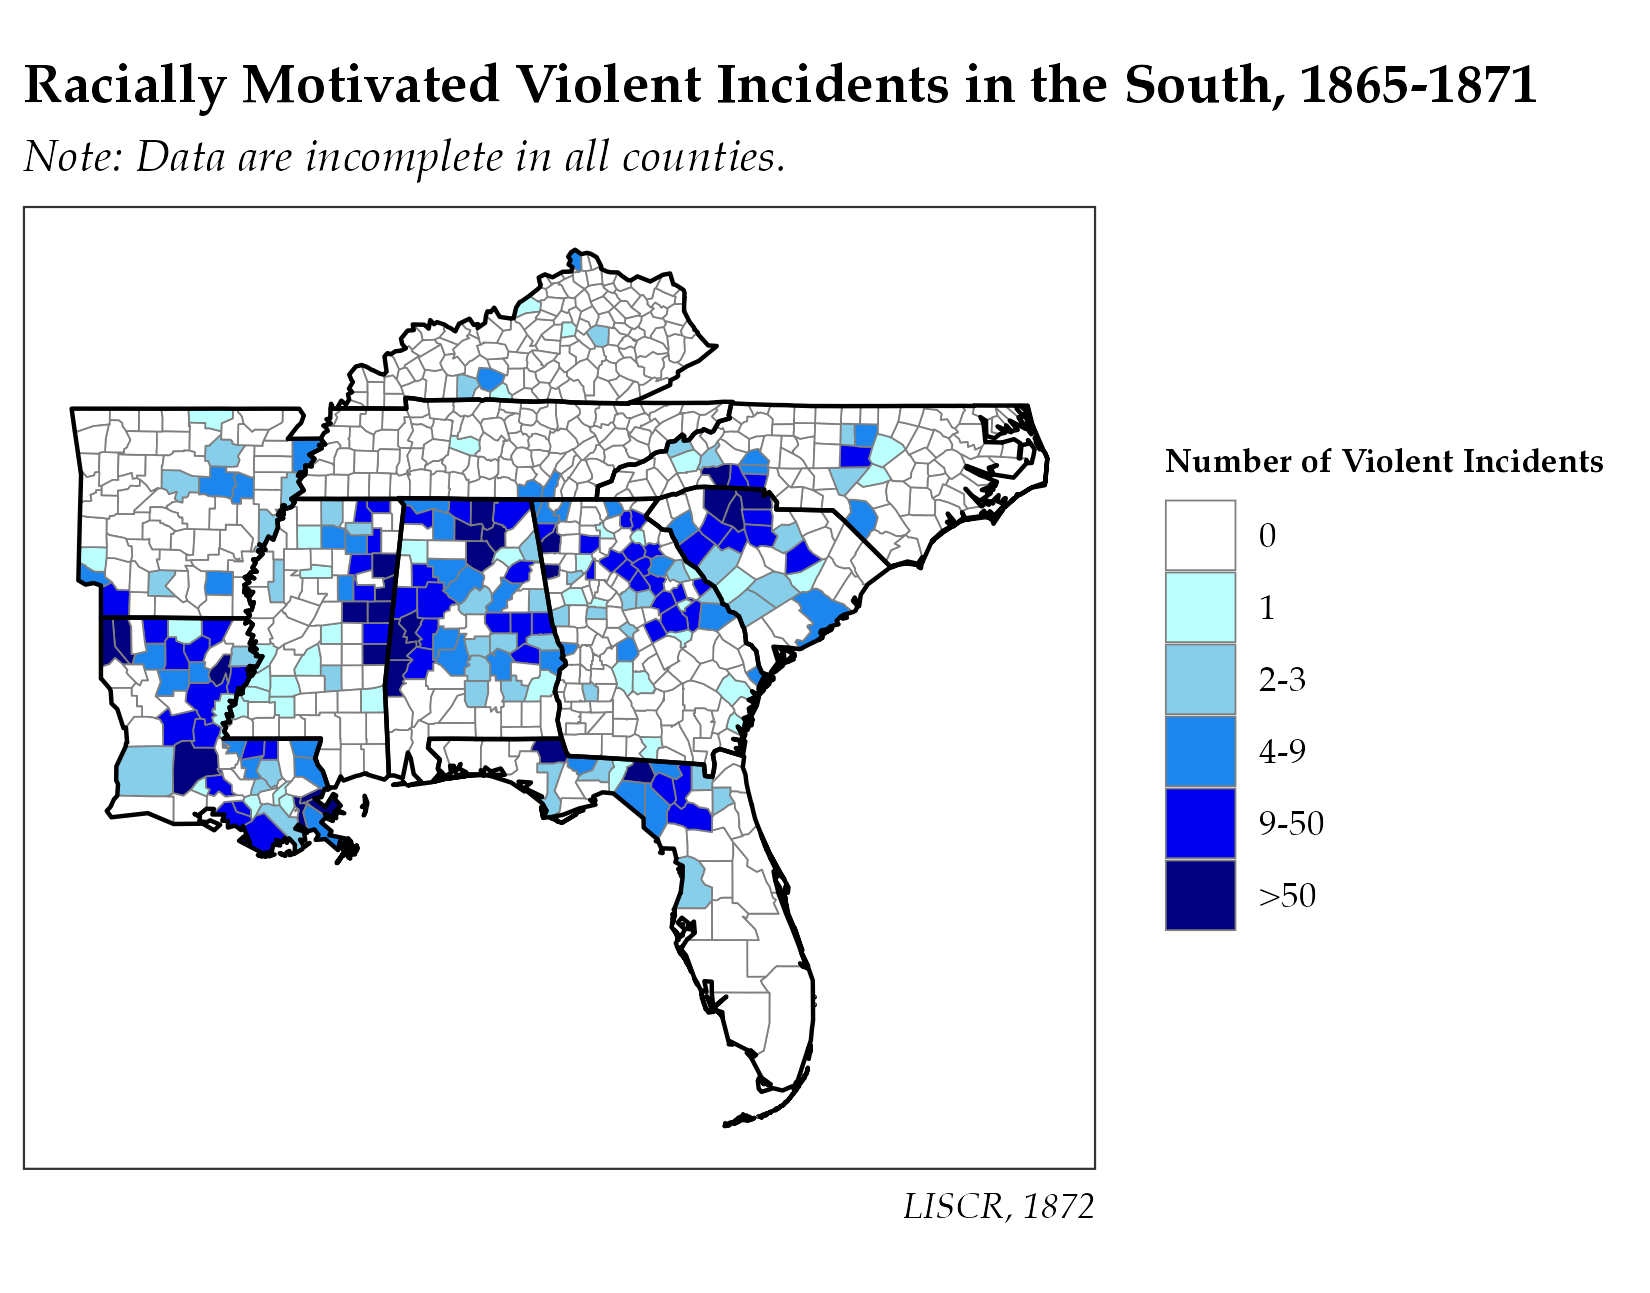
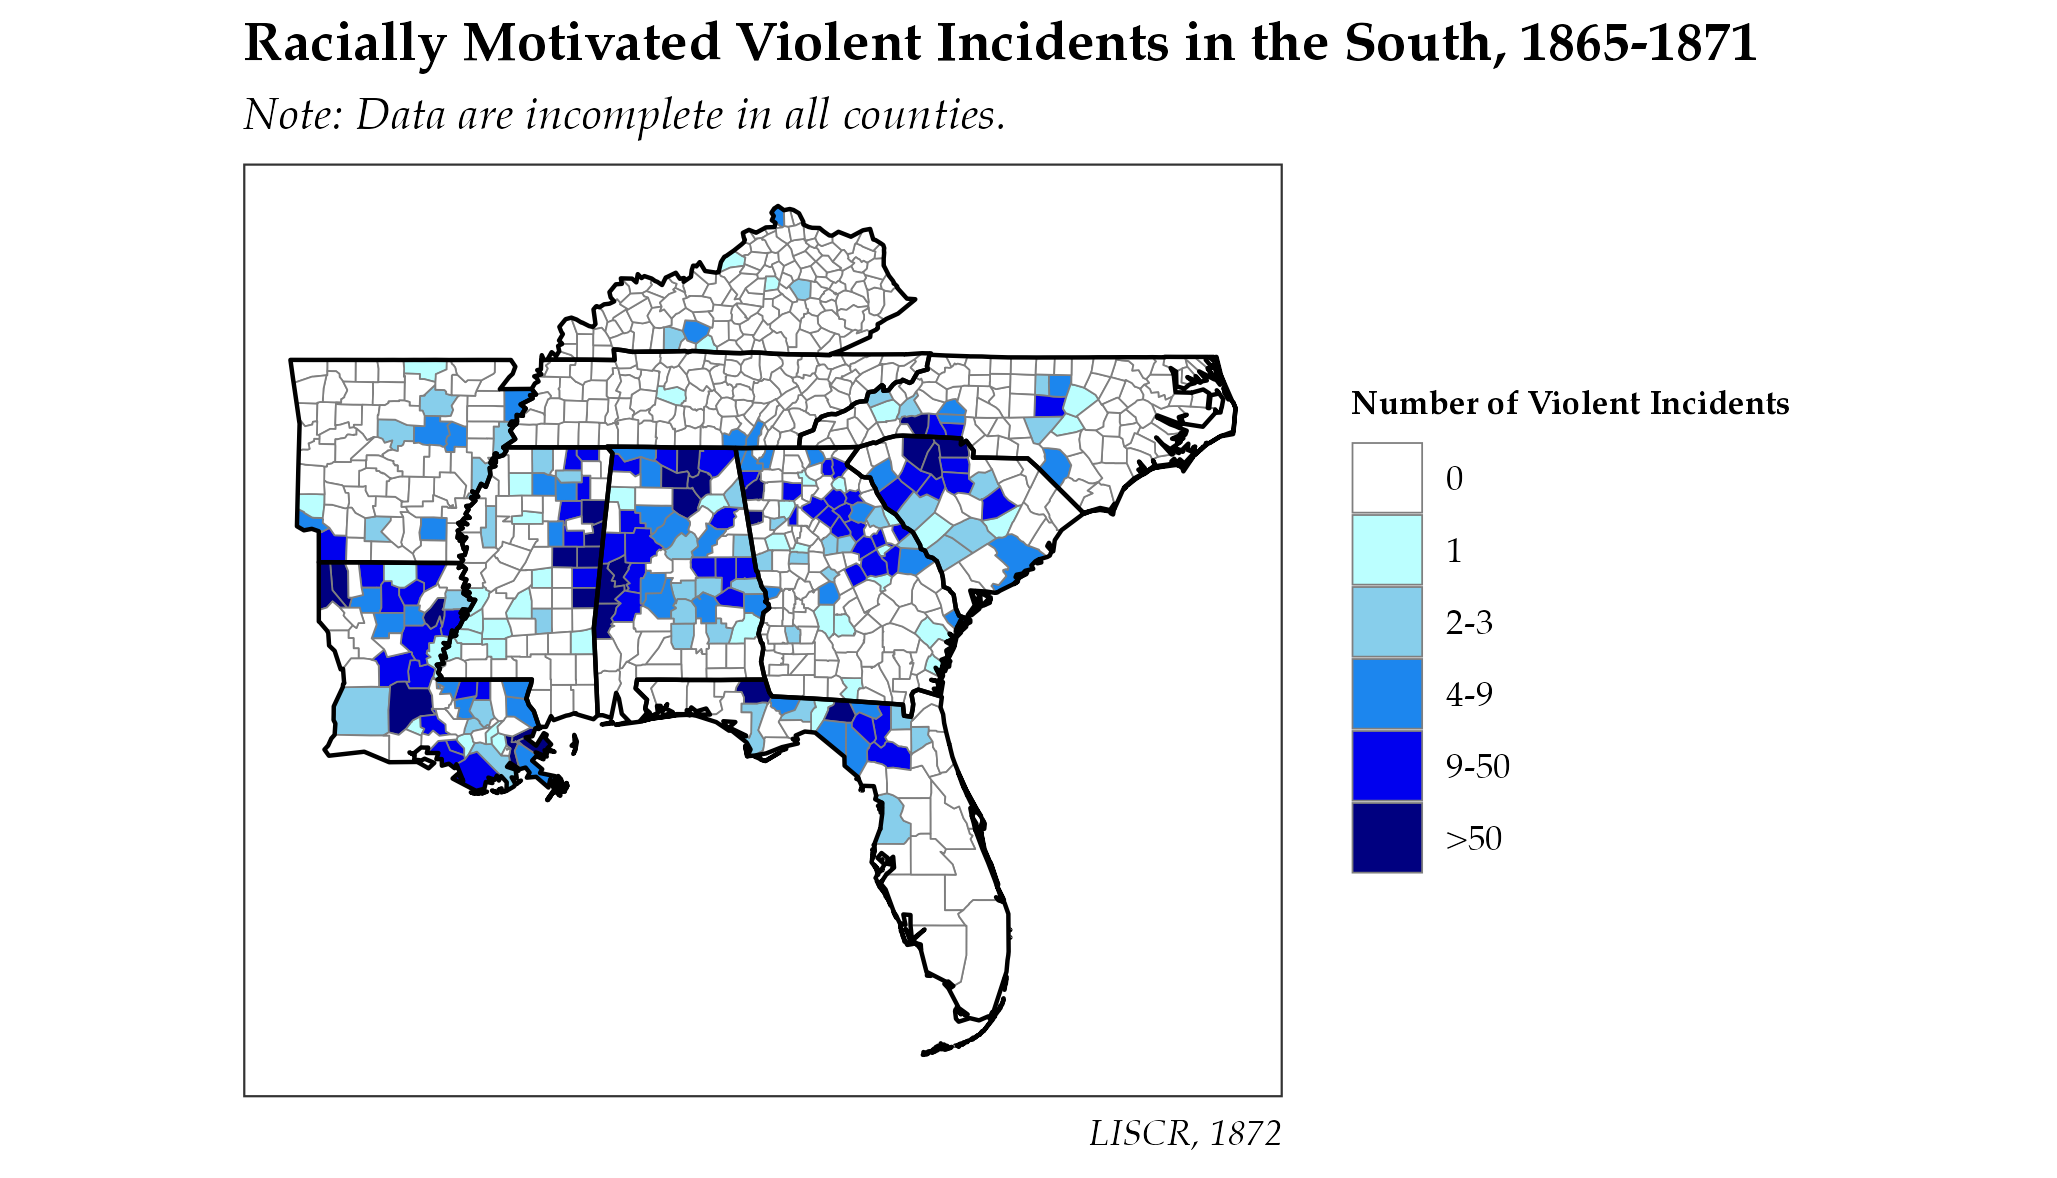
Updated Forged in Firing Link and Photo
As in the title. I realized the link to my Dropbox was deprecated.

diff --git a/docs/research.html b/docs/research.html
@@ -354,7 +354,7 @@ Working Papers
 </summary>
 <ol type="1">
 <li><p>“Forged In Firing”: The Creation of Identity in the Aftermath of Civil War</p>
-<a href="https://www.dropbox.com/scl/fi/k5qlfuymzdkfczwhpyp51/FIF.pdf?rlkey=045mo48ncz4vcul6azttnqnbs&amp;st=z1nohmmy&amp;dl=0">Working Paper Draft</a> | <a href="https://www.dropbox.com/scl/fi/83ki9rh39tuwa3ut4sljr/FIF-Appendices.pdf?rlkey=w16bol22zeo0dq4kq6vpo081z&amp;st=jla0x51t&amp;dl=0">Draft Appendices</a></li>
+<a href="https://www.dropbox.com/scl/fi/awejo6kb48cxjn0yoyl0e/FIF.pdf?rlkey=2tlj4l47nqnsdsapksnchab0s&amp;st=qzx93hu5&amp;dl=0">Working Paper Draft</a> | <a href="https://www.dropbox.com/scl/fi/83ki9rh39tuwa3ut4sljr/FIF-Appendices.pdf?rlkey=w16bol22zeo0dq4kq6vpo081z&amp;st=jla0x51t&amp;dl=0">Draft Appendices</a></li>
 </ol>
 <p>Scholars of civil conflict have long sought to develop a unified theory of post-conflict political behavior surrounding identity and memory. In this article, I propose a process by which groups use their personal and collective memory of wartime experiences to craft boundaries between themselves and out-groups which did not experience that boundary. I contend that one way to observe this process is through a physical manifestation of this collective memory: monument construction. Using the American South in the aftermath of the American Civil War as the exemplar case, I test this. I find that while physical manifestations had different effects in the aftermath of the War, these effects attenuated in time.</p>
 <ol start="2" type="1">
